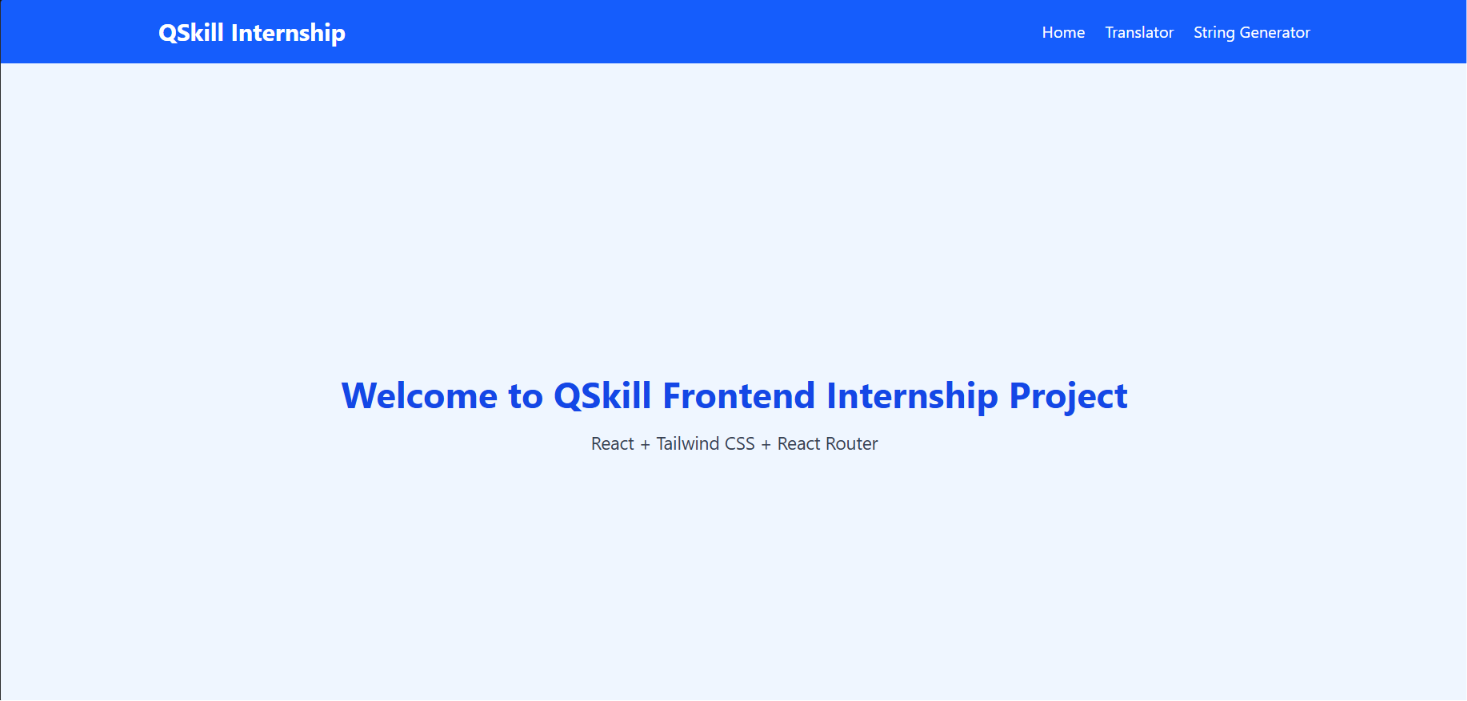
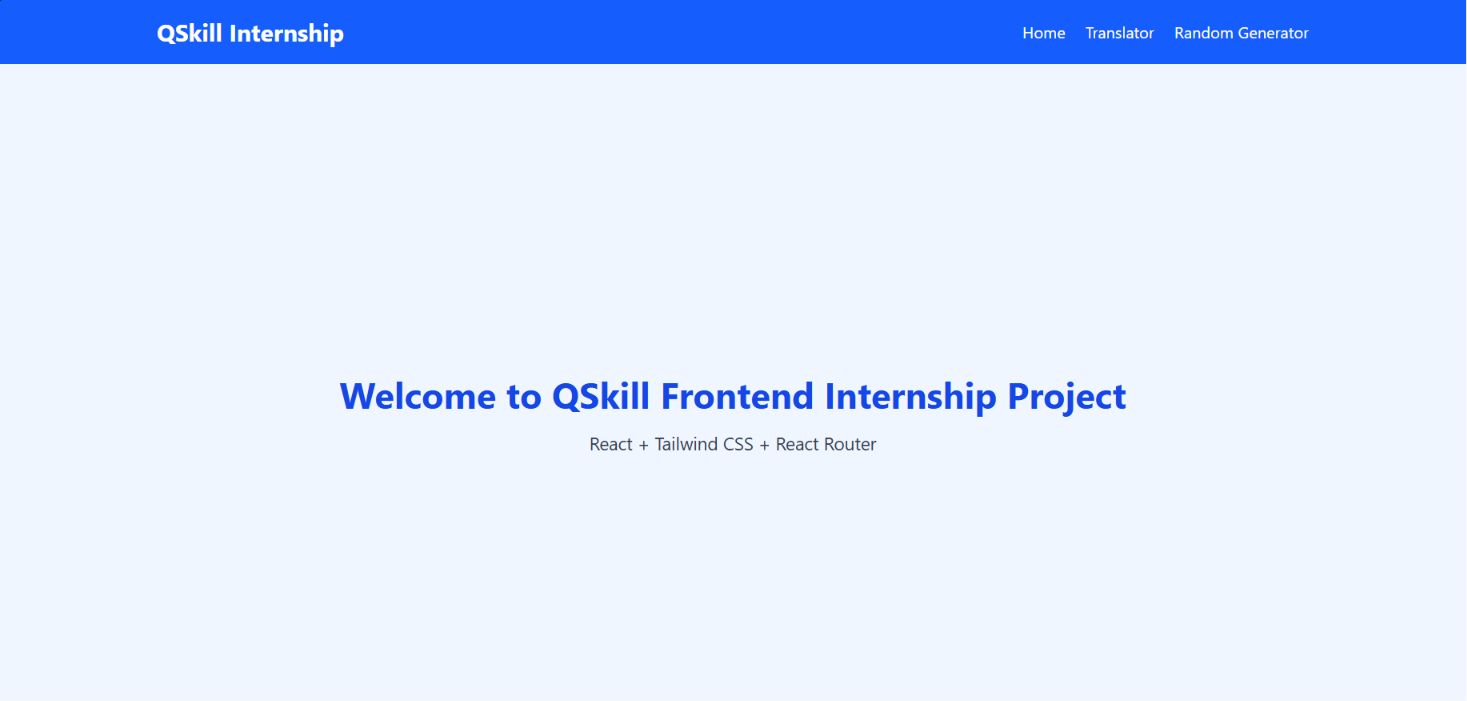
Improve README and add project screenshots

diff --git a/README.md b/README.md
@@ -1,17 +1,17 @@
-🌐 AI Text Translator
+# 🌐 AI Text Translator
 
-An AI-powered text translation web application built using React, Vite, Tailwind CSS, and RapidAPI. The application allows users to translate text into multiple languages through a clean, responsive, and user-friendly interface.
+An AI-powered text translation web application built with React, Vite, Tailwind CSS, and RapidAPI. The application enables users to translate text into multiple languages through a clean, responsive, and user-friendly interface.
 
-✨ Features
+## Features
 
-- 🌍 Translate text into multiple languages
-- ⚡ Fast and accurate translations using RapidAPI
-- 🎨 Clean and responsive user interface
-- 📱 Mobile-friendly design
-- ⚛ Built with React functional components and Hooks
-- 🔄 Real-time translation experience
+- Translate text into multiple languages
+- Fast and accurate translations using RapidAPI
+- Clean and responsive user interface
+- Mobile-friendly design
+- Built with React functional components and Hooks
+- Real-time translation experience
 
-🛠 Technologies Used
+## Technologies Used
 
 - React.js
 - Vite
@@ -21,8 +21,9 @@ An AI-powered text translation web application built using React, Vite, Tailwind
 - HTML5
 - CSS3
 
-📂 Project Structure
+## Project Structure
 
+```text
 ai-text-translator-react/
 ├── public/
 ├── src/
@@ -33,12 +34,14 @@ ai-text-translator-react/
 ├── package.json
 ├── vite.config.js
 └── README.md
-
-🚀 Getting Started
+```
+## Getting Started
 
 1. Clone the repository
 
+```bash
 git clone git@github.com:vishakha-code27/ai-text-translator-react.git
+```
 
 2. Navigate to the project folder
 
@@ -52,23 +55,33 @@ npm install
 
 npm run dev
 
-📸 Project Screenshot
+## Project Screenshots
 
-«Add a screenshot of your application here after running the project.»
+###  Home Page
 
-🎯 Learning Outcomes
+![Home Page](images/home-page.png)
+
+###  Translator Page
+
+![Translator Page](images/translator-page.png)
+
+###  Random Generator Page
+
+![Random Generator Page](images/random-generator-page.png)
+
+## Learning Outcomes
 
 This project helped me learn:
 
 - React fundamentals
-- React Hooks ("useState", "useEffect")
+- React Hooks (`useState`, `useEffect`)
 - Client-side routing
 - API integration using RapidAPI
-- Environment variables (".env")
+- Environment variables (`.env`)
 - Responsive UI development with Tailwind CSS
 - Git and GitHub version control
 
-👩💻 Author
+## Author
 
 Vishakha Chavan
 
@@ -76,4 +89,3 @@ GitHub: https://github.com/vishakha-code27
 
 ---
 
-⭐ If you found this project useful, feel free to star the repository.
